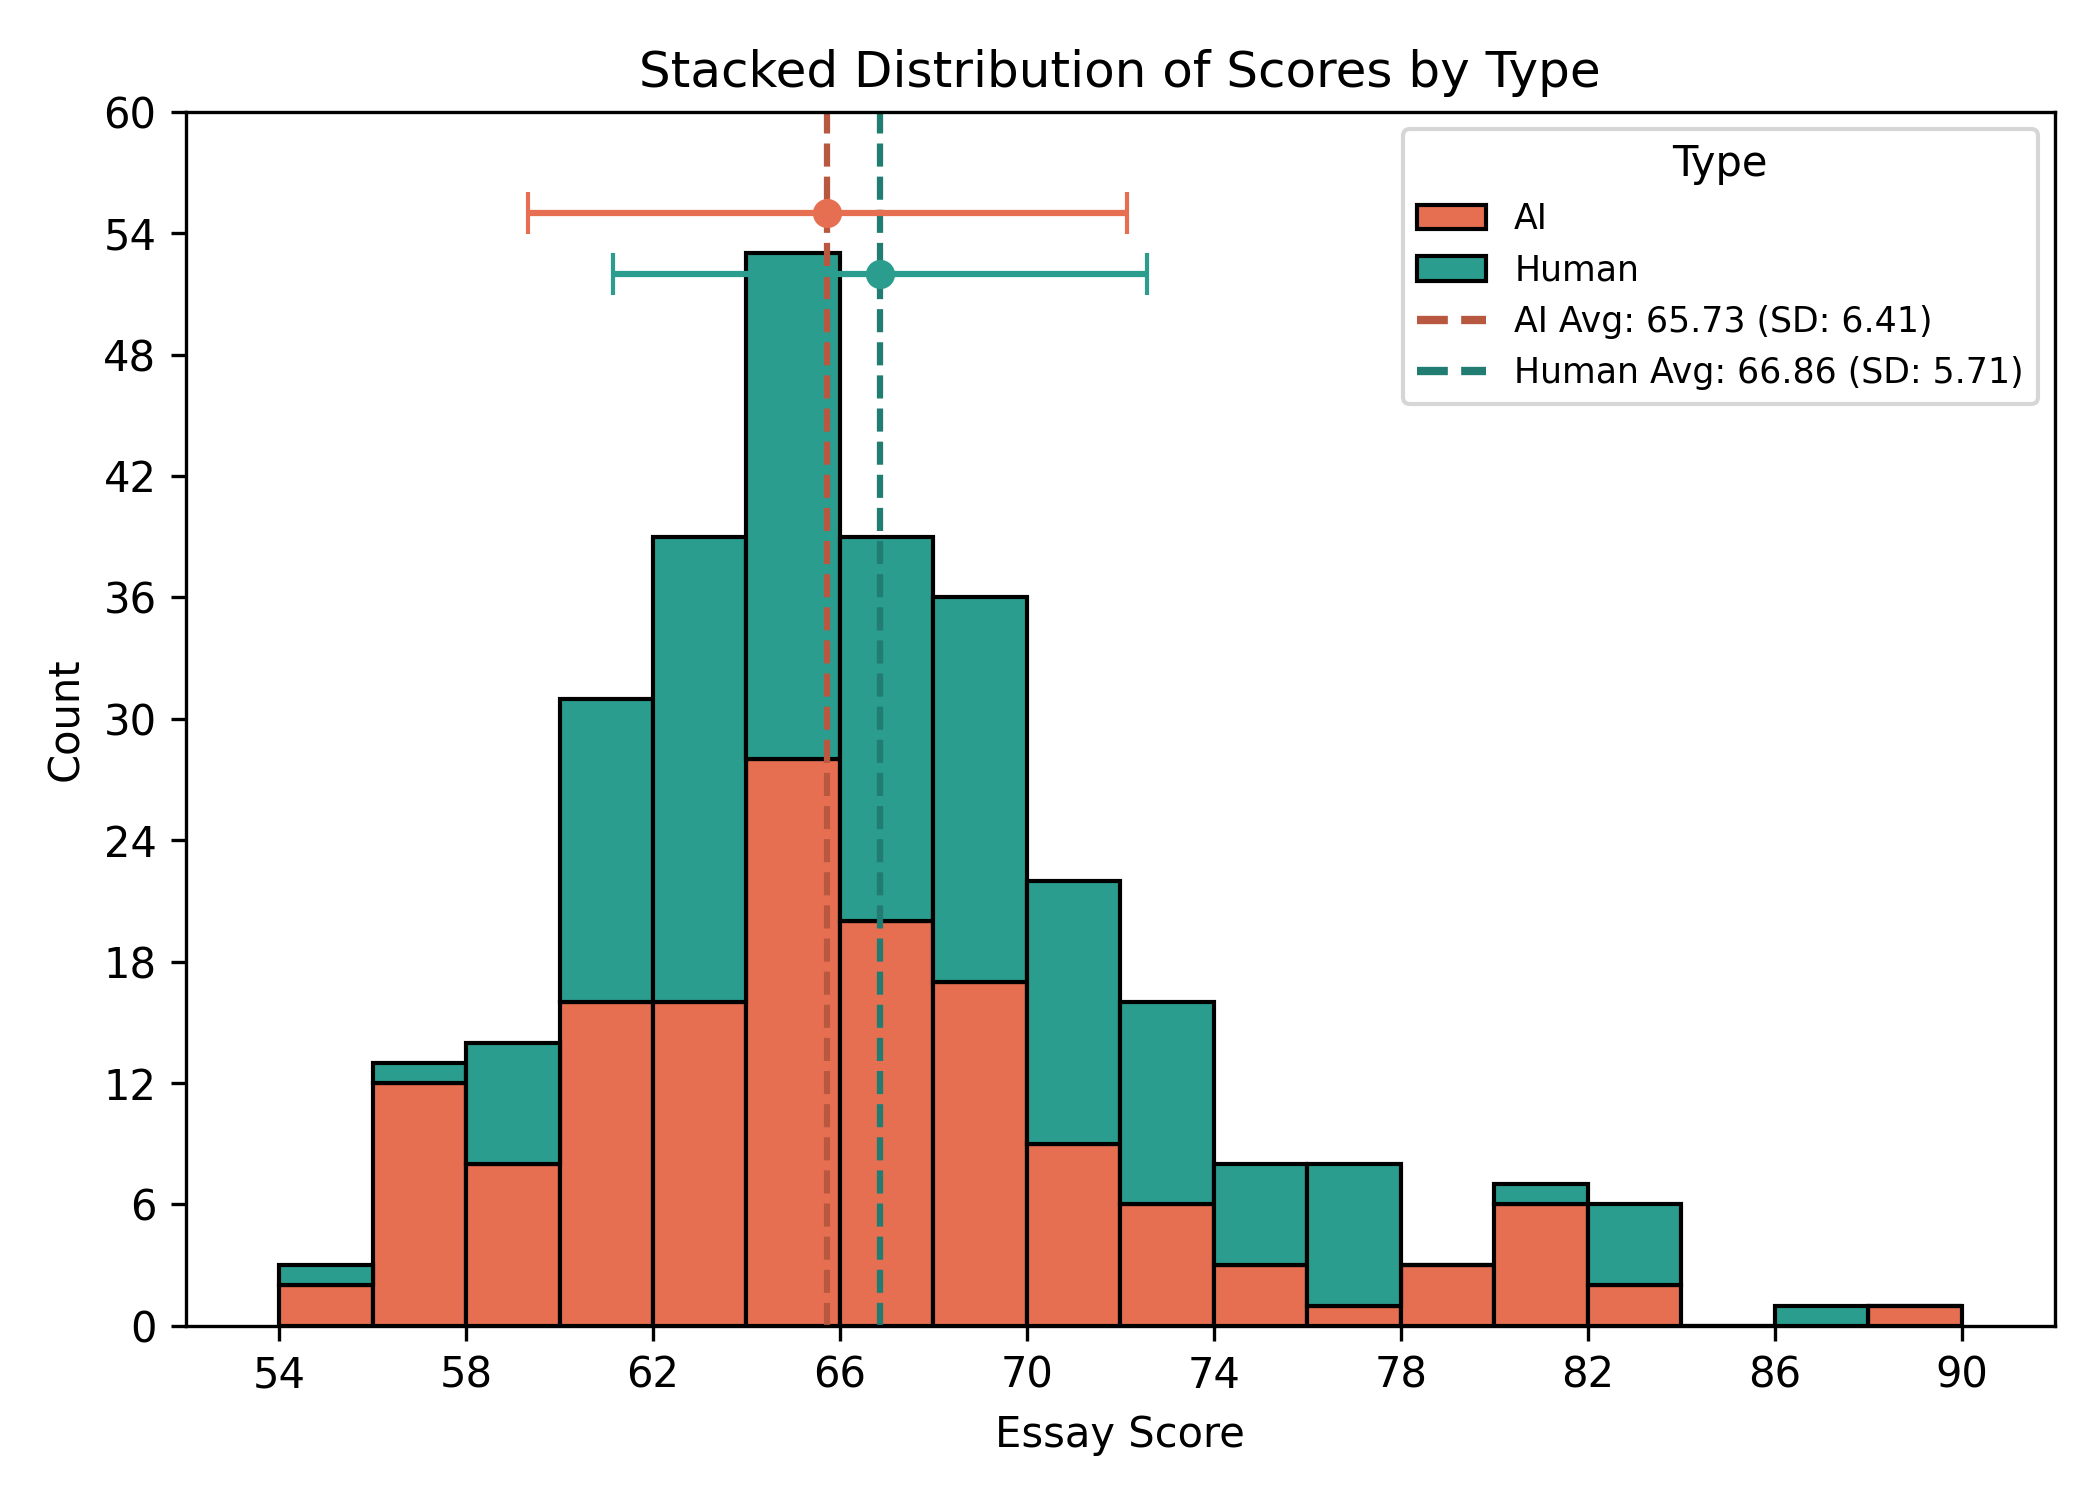
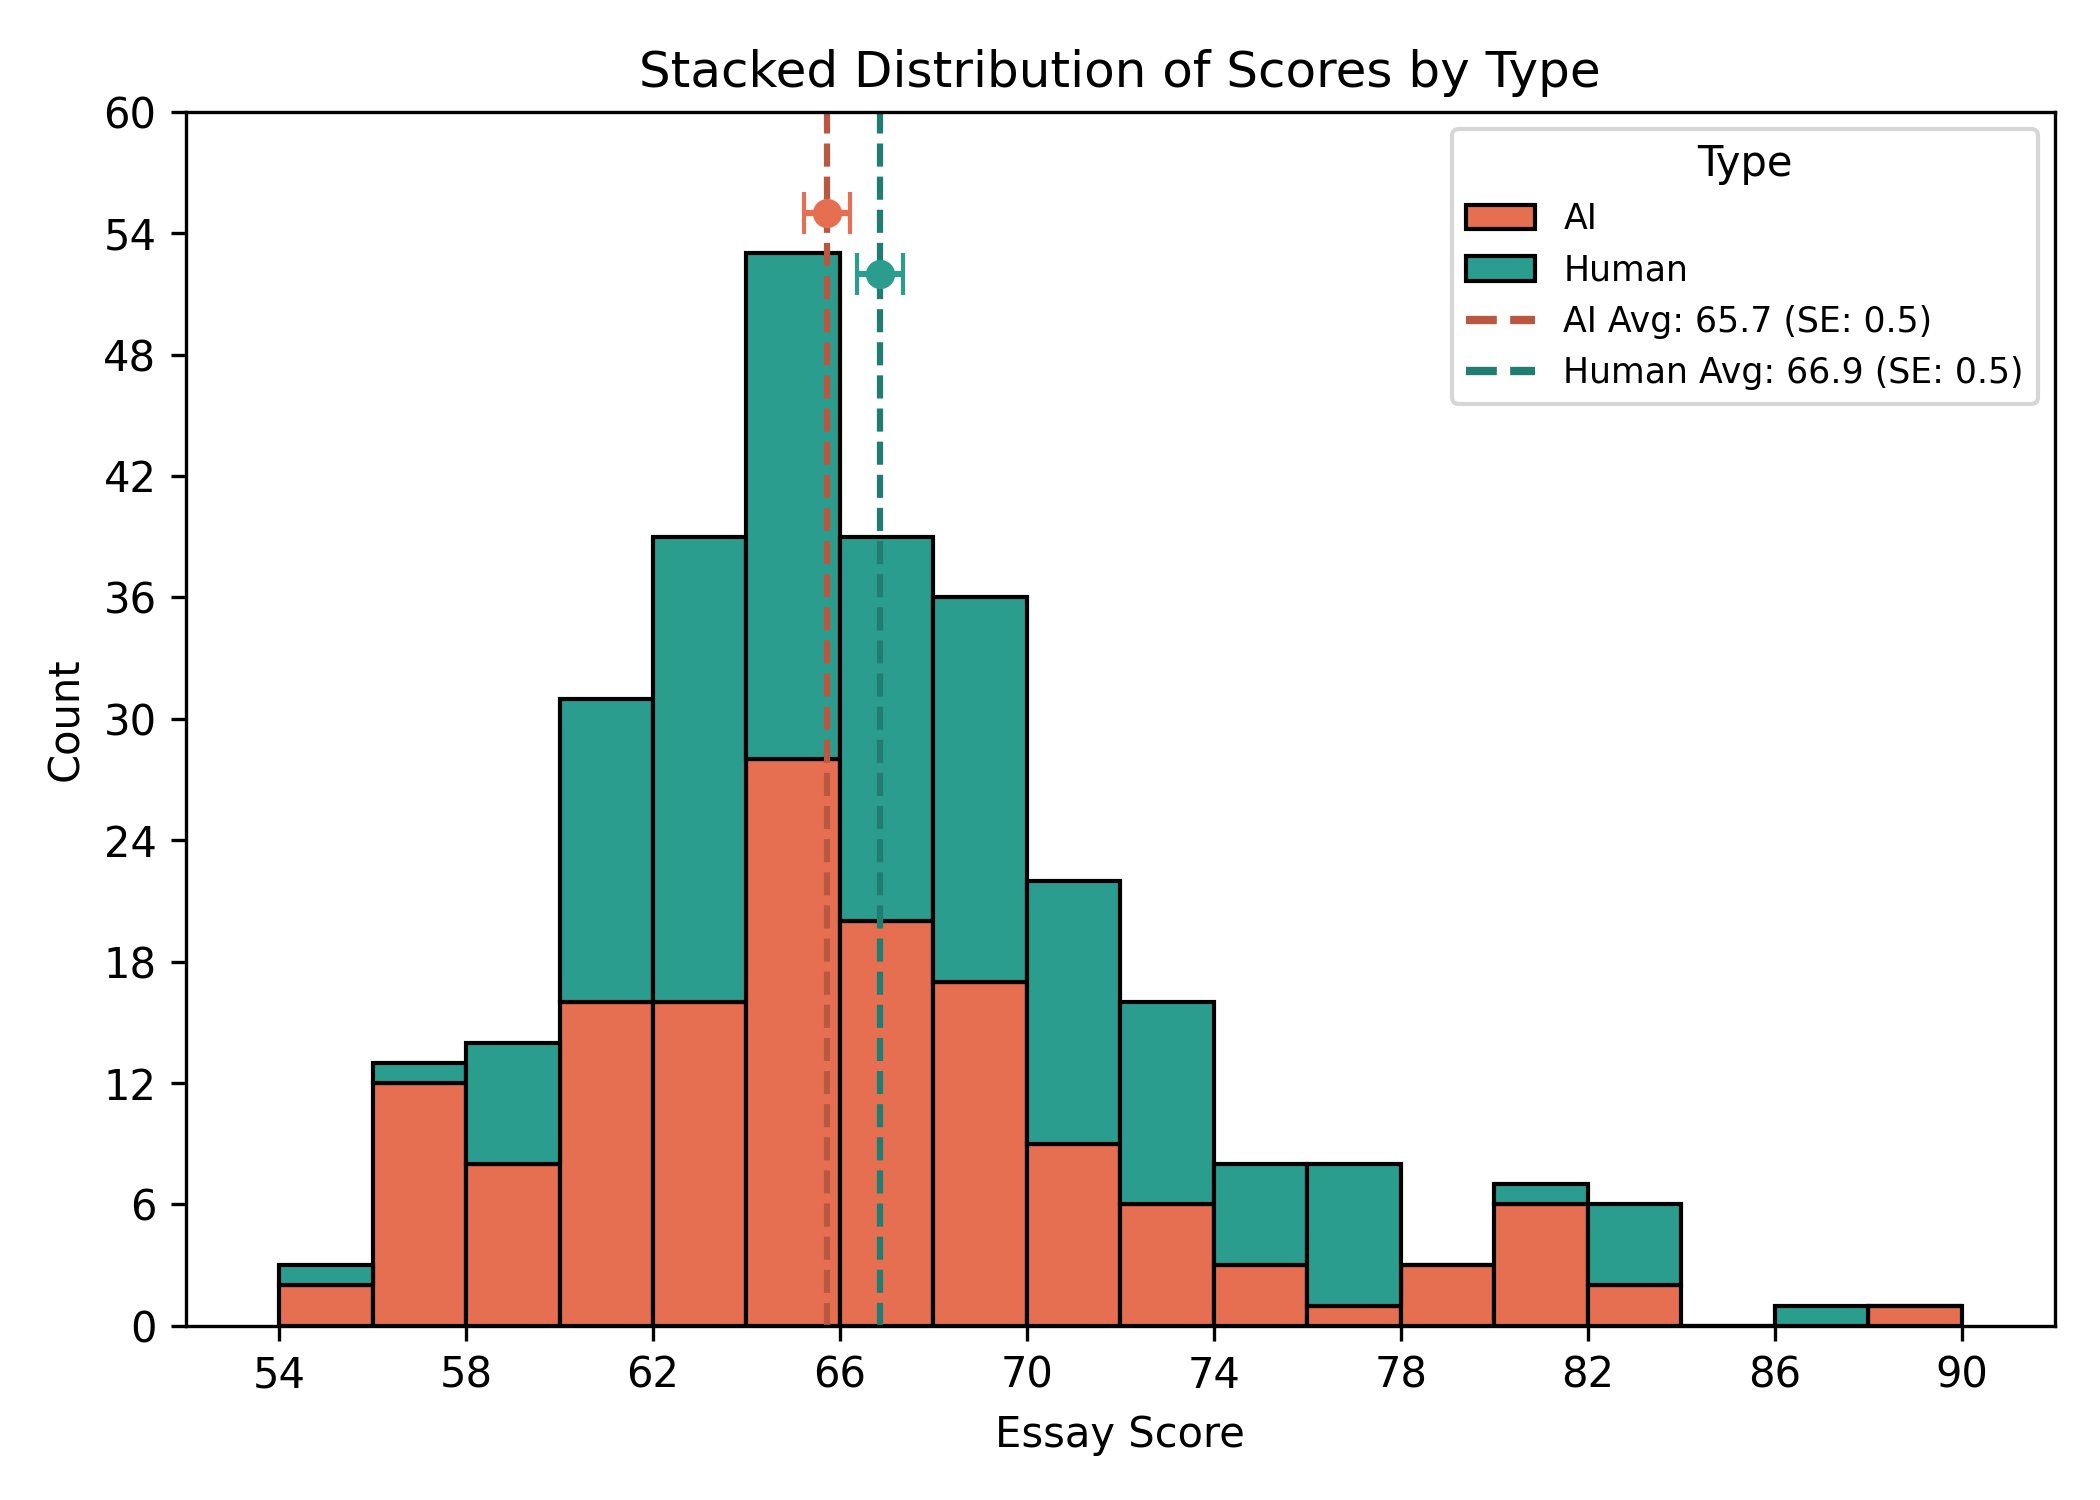
code

diff --git a/essay-generation/plotting-scripts/all-scores.py b/essay-generation/plotting-scripts/all-scores.py
@@ -37,6 +37,8 @@ mean_human = human_scores.mean()
 mean_ai = ai_scores.mean()
 sd_human = human_scores.std()
 sd_ai = ai_scores.std()
+se_human = round(sd_human/np.sqrt(150),1)
+se_ai = round(sd_ai/np.sqrt(150),1)
 
 print('Human: ', mean_human, sd_human)
 print('AI: ', mean_ai, sd_ai)
@@ -48,16 +50,16 @@ ax.vlines(mean_ai, 0, ai_scores.count(), color=vlines[1], linestyle='--', label=
 y_pos_human = 52
 y_pos_ai = 55
 
-ax.errorbar(mean_human, y_pos_human, xerr=sd_human, fmt='o', color=colors[1], capsize=5)
-ax.errorbar(mean_ai, y_pos_ai, xerr=sd_ai, fmt='o', color=colors[0], capsize=5)
+ax.errorbar(mean_human, y_pos_human, xerr=se_human, fmt='o', color=colors[1], capsize=5)
+ax.errorbar(mean_ai, y_pos_ai, xerr=se_ai, fmt='o', color=colors[0], capsize=5)
 ax.legend(title='Type', loc='upper right', fontsize='small', 
           labels=['Human', 'AI', f'Human Avg: {mean_human:.2f} (SD: {sd_human:.2f})', f'AI Avg: {mean_ai:.2f} (SD: {sd_ai:.2f})'])
 
 legend_elements = [
     Patch(facecolor='#E76F51', edgecolor='black', label='AI'),
     Patch(facecolor='#2A9D8F', edgecolor='black', label='Human'),
-    Line2D([0], [0], color='#b85840', lw=2, linestyle='--', label=f'AI Avg: {mean_ai:.2f} (SD: {sd_ai:.2f})'),
-    Line2D([0], [0], color='#217d72', lw=2, linestyle='--', label=f'Human Avg: {mean_human:.2f} (SD: {sd_human:.2f})')
+    Line2D([0], [0], color='#b85840', lw=2, linestyle='--', label=f'AI Avg: {mean_ai:.1f} (SE: {se_ai})'),
+    Line2D([0], [0], color='#217d72', lw=2, linestyle='--', label=f'Human Avg: {mean_human:.1f} (SE: {se_human})')
 ]
 
 ax.legend(handles=legend_elements, title='Type', loc='upper right', fontsize='small')

diff --git a/coding-test/notes.md b/coding-test/notes.md
@@ -1,0 +1,1 @@
+Unfortunately the code surrounding the processing of student submissions cannot be shared but that used to create the AI submissions can.
